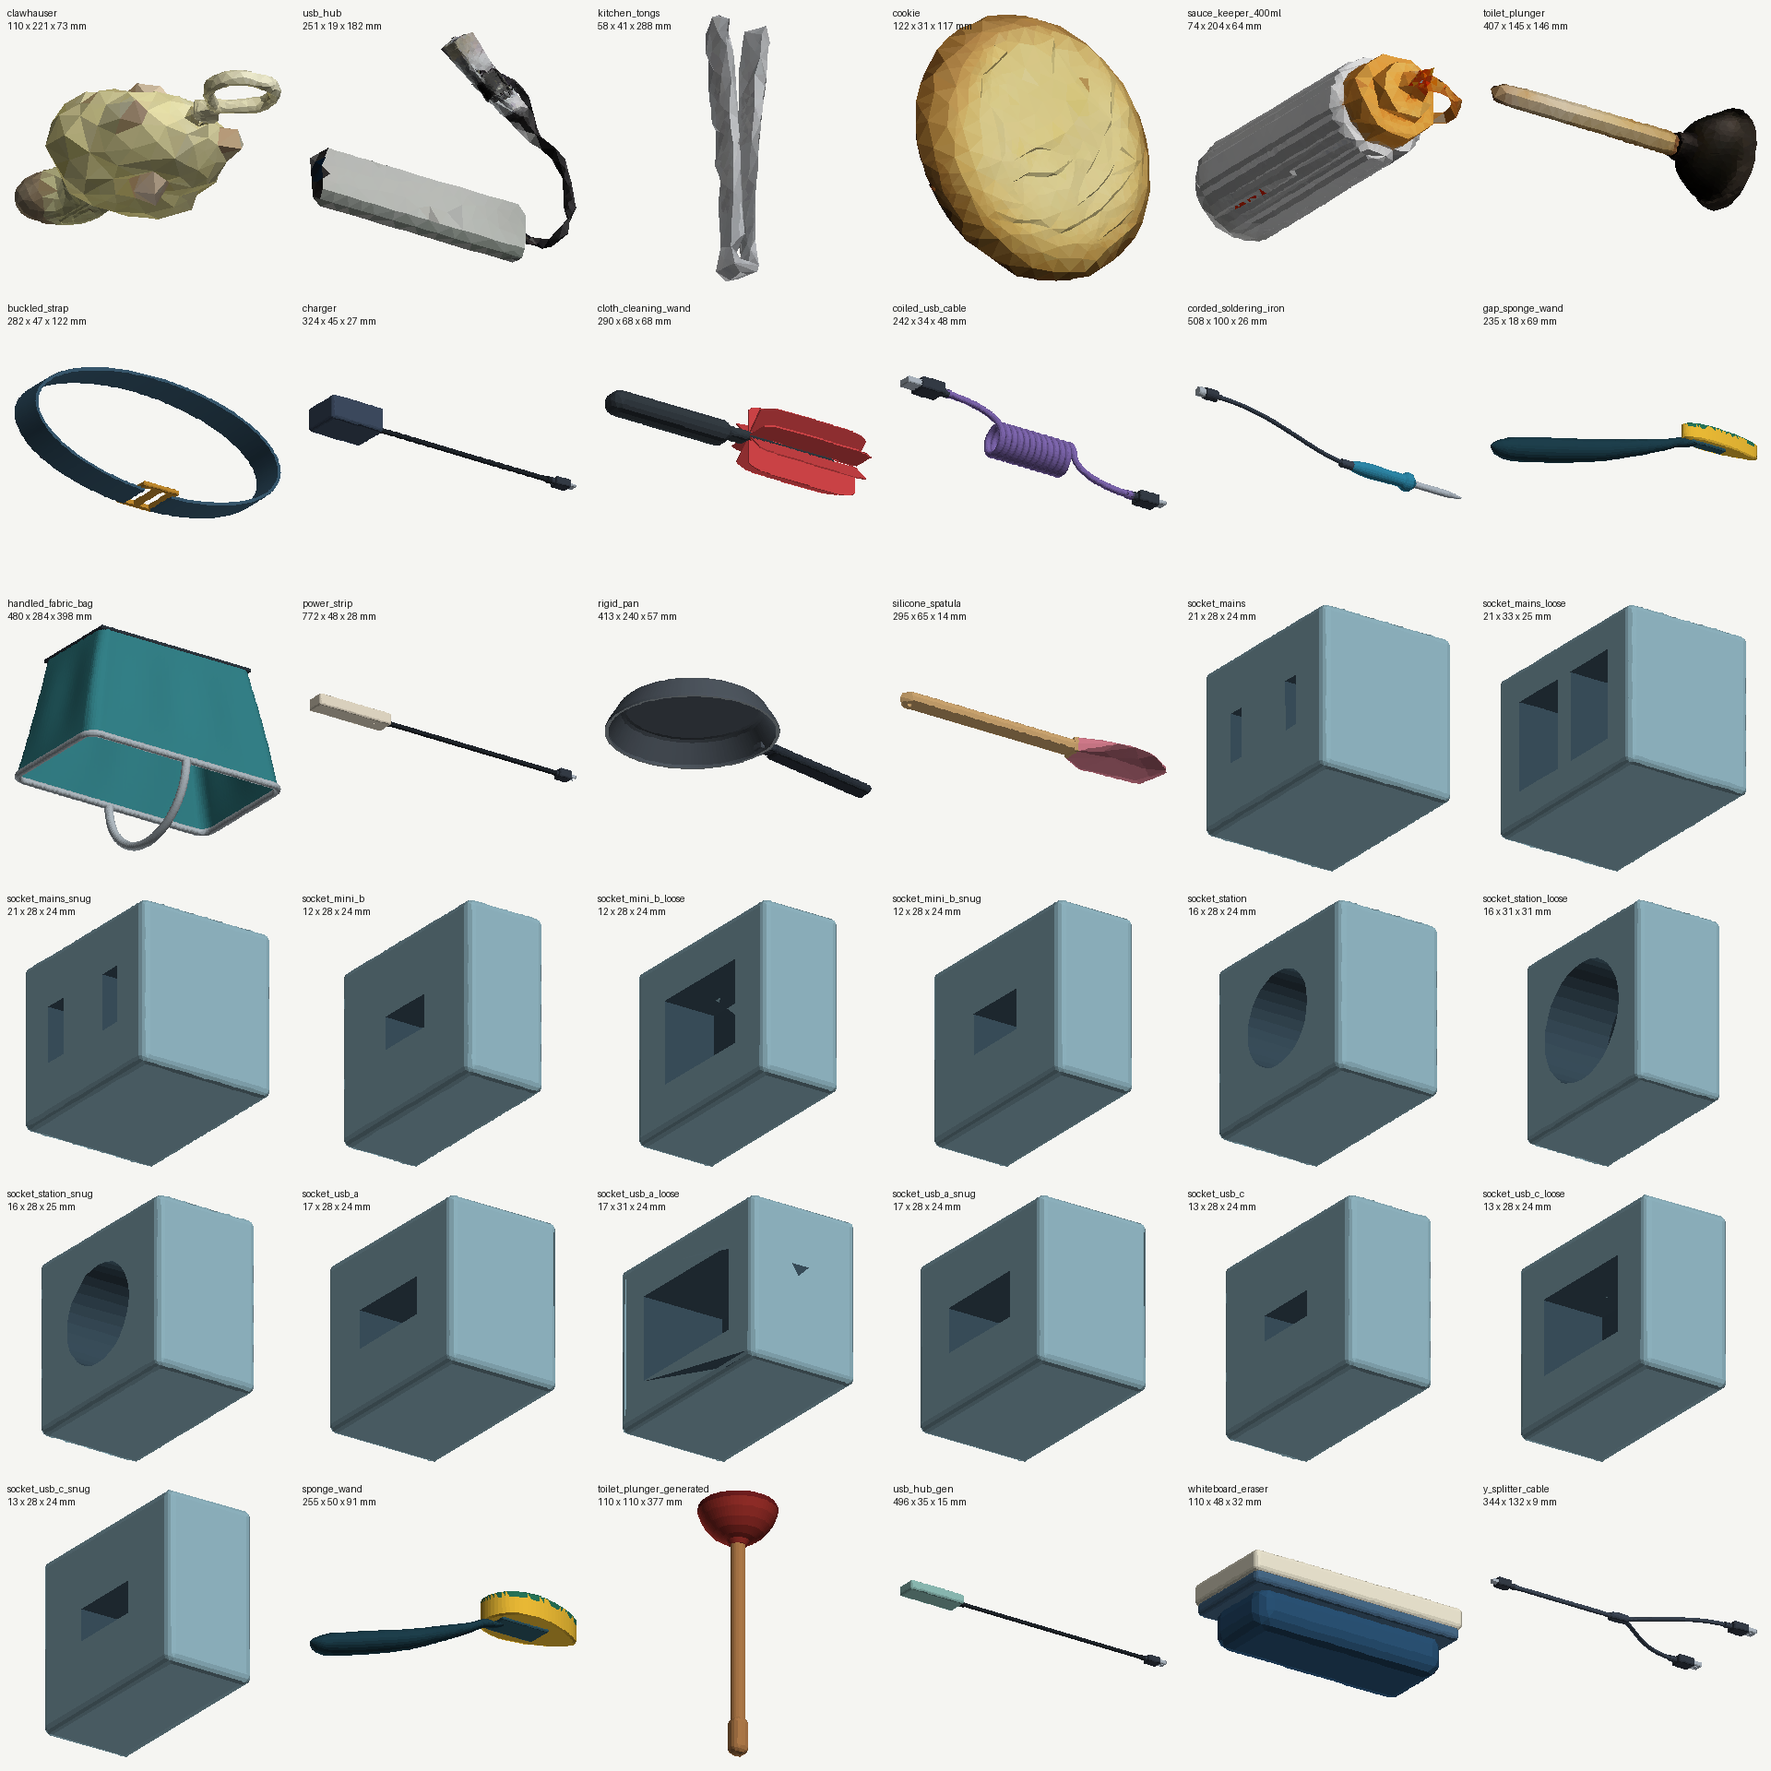
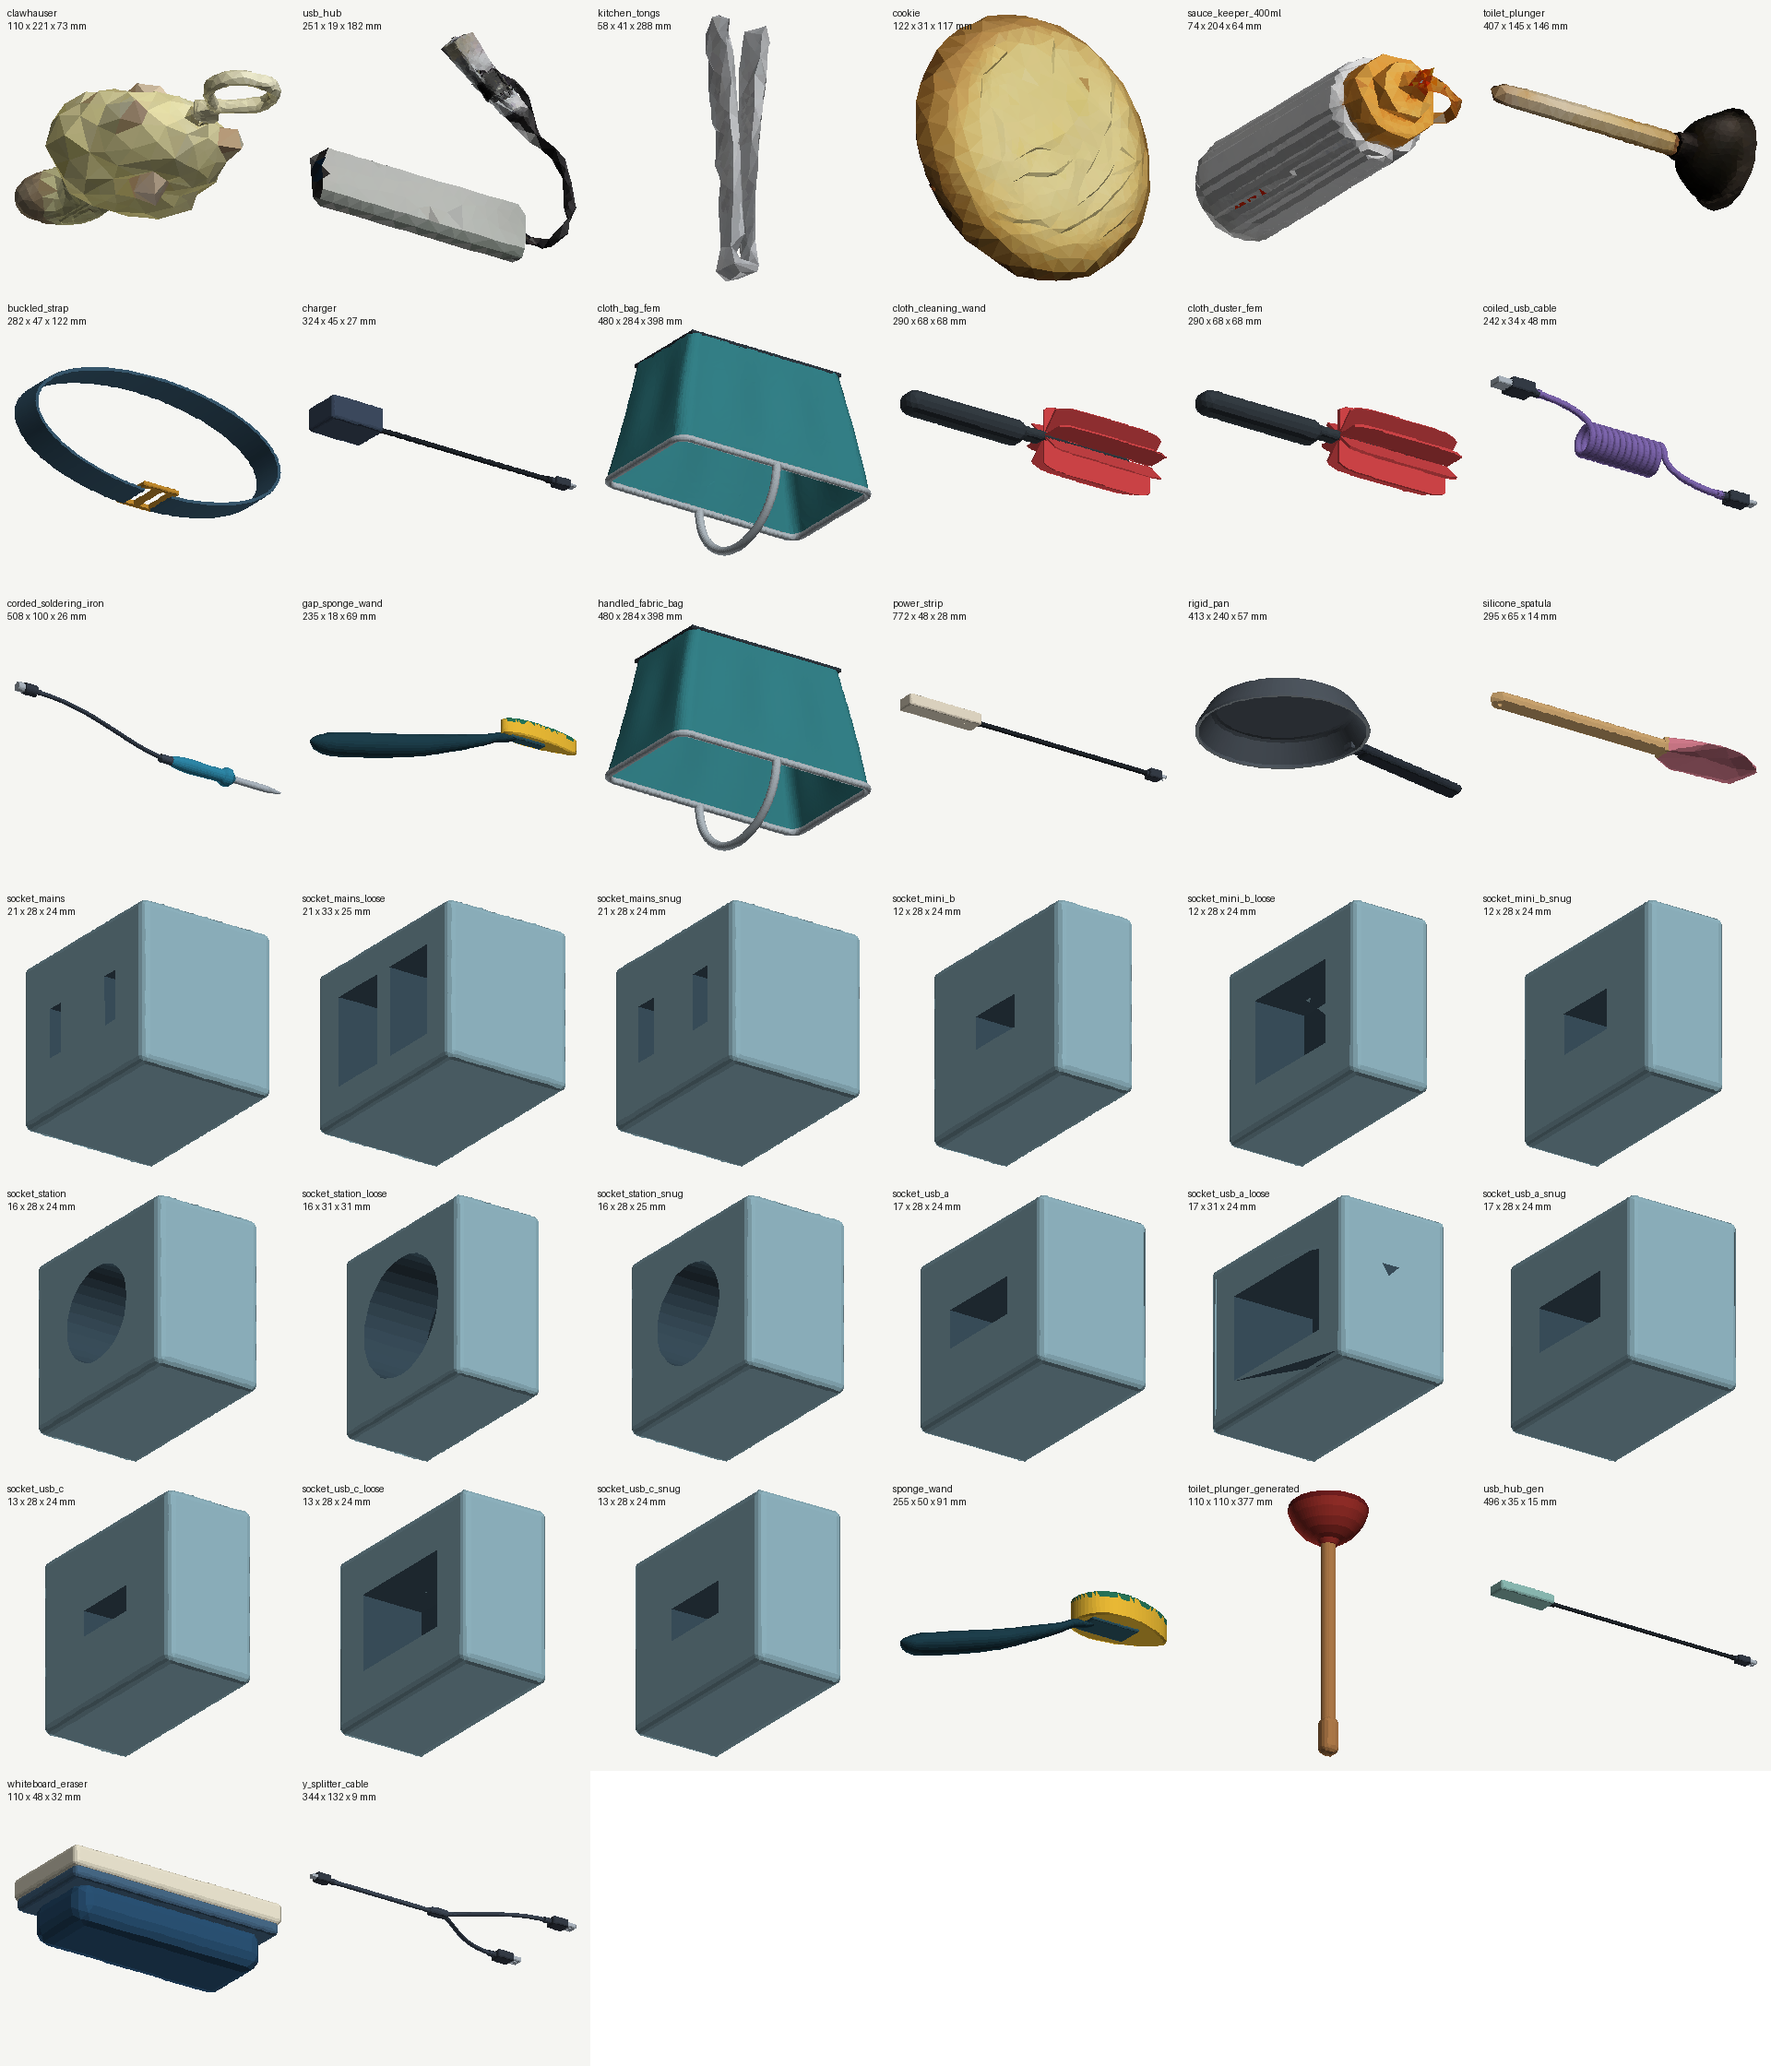
assets: catalog the cloth FEM bundles and the tool scenes that use each asset

diff --git a/examples/10_heterogeneous/assets/README.md b/examples/10_heterogeneous/assets/README.md
@@ -41,14 +41,16 @@ generated copy has a suffix: `usb_hub_gen` sits next to the original `usb_hub`, 
 | --- | --- | ---: | --- | --- |
 | [buckled_strap](buckled_strap/SOURCE.md) | cloth + rigid | - | 282 x 47 x 122 | - |
 | [charger](charger/SOURCE.md) | tet + rigid groups | 18,156 | 324 x 45 x 27 | `cable_hang_stick`, `cable_scene`, `cable_sort_plug`, `cable_tray_multi`, `cable_untangle_sort` |
+| [cloth_bag_fem](cloth_bag_fem/SOURCE.md) | tet + rigid groups | 111,476 | 480 x 284 x 398 | `tool_pack_bag` |
 | [cloth_cleaning_wand](cloth_cleaning_wand/SOURCE.md) | cloth + rigid | - | 290 x 68 x 68 | - |
+| [cloth_duster_fem](cloth_duster_fem/SOURCE.md) | tet + rigid groups | 28,667 | 290 x 68 x 68 | `tool_duster` |
 | [coiled_usb_cable](coiled_usb_cable/SOURCE.md) | tet + rigid groups | 71,030 | 242 x 34 x 48 | `cable_scene`, `cable_untangle_sort` |
-| [corded_soldering_iron](corded_soldering_iron/SOURCE.md) | tet + rigid groups | 19,117 | 508 x 100 x 26 | - |
-| [gap_sponge_wand](gap_sponge_wand/SOURCE.md) | tet + rigid groups | 14,813 | 235 x 18 x 69 | - |
+| [corded_soldering_iron](corded_soldering_iron/SOURCE.md) | tet + rigid groups | 19,117 | 508 x 100 x 26 | `tool_dock_iron`, `tool_scene` |
+| [gap_sponge_wand](gap_sponge_wand/SOURCE.md) | tet + rigid groups | 14,813 | 235 x 18 x 69 | `tool_gap_channel`, `tool_scene` |
 | [handled_fabric_bag](handled_fabric_bag/SOURCE.md) | cloth + rigid | - | 480 x 284 x 398 | - |
 | [power_strip](power_strip/SOURCE.md) | tet + rigid groups | 35,632 | 772 x 48 x 28 | `cable_retrieve`, `cable_scene` |
-| [rigid_pan](rigid_pan/SOURCE.md) | rigid mesh | - | 413 x 240 x 57 | - |
-| [silicone_spatula](silicone_spatula/SOURCE.md) | tet + rigid groups | 29,121 | 295 x 65 x 14 | - |
+| [rigid_pan](rigid_pan/SOURCE.md) | rigid mesh | - | 413 x 240 x 57 | `tool_spatula_cook` |
+| [silicone_spatula](silicone_spatula/SOURCE.md) | tet + rigid groups | 29,121 | 295 x 65 x 14 | `tool_pack_bag`, `tool_scene`, `tool_spatula_cook` |
 | [socket_mains](socket_mains/SOURCE.md) | rigid socket | - | 21 x 28 x 24 | - |
 | [socket_mains_loose](socket_mains_loose/SOURCE.md) | rigid socket | - | 21 x 33 x 25 | - |
 | [socket_mains_snug](socket_mains_snug/SOURCE.md) | rigid socket | - | 21 x 28 x 24 | - |
@@ -56,18 +58,18 @@ generated copy has a suffix: `usb_hub_gen` sits next to the original `usb_hub`, 
 | [socket_mini_b_loose](socket_mini_b_loose/SOURCE.md) | rigid socket | - | 12 x 28 x 24 | - |
 | [socket_mini_b_snug](socket_mini_b_snug/SOURCE.md) | rigid socket | - | 12 x 28 x 24 | - |
 | [socket_station](socket_station/SOURCE.md) | rigid socket | - | 16 x 28 x 24 | - |
-| [socket_station_loose](socket_station_loose/SOURCE.md) | rigid socket | - | 16 x 31 x 31 | - |
-| [socket_station_snug](socket_station_snug/SOURCE.md) | rigid socket | - | 16 x 28 x 25 | - |
+| [socket_station_loose](socket_station_loose/SOURCE.md) | rigid socket | - | 16 x 31 x 31 | `tool_dock_iron` |
+| [socket_station_snug](socket_station_snug/SOURCE.md) | rigid socket | - | 16 x 28 x 25 | `tool_dock_iron` |
 | [socket_usb_a](socket_usb_a/SOURCE.md) | rigid socket | - | 17 x 28 x 24 | - |
 | [socket_usb_a_loose](socket_usb_a_loose/SOURCE.md) | rigid socket | - | 17 x 31 x 24 | `cable_plug_place` |
 | [socket_usb_a_snug](socket_usb_a_snug/SOURCE.md) | rigid socket | - | 17 x 28 x 24 | `cable_plug_place` |
 | [socket_usb_c](socket_usb_c/SOURCE.md) | rigid socket | - | 13 x 28 x 24 | - |
 | [socket_usb_c_loose](socket_usb_c_loose/SOURCE.md) | rigid socket | - | 13 x 28 x 24 | - |
 | [socket_usb_c_snug](socket_usb_c_snug/SOURCE.md) | rigid socket | - | 13 x 28 x 24 | - |
-| [sponge_wand](sponge_wand/SOURCE.md) | tet + rigid groups | 16,874 | 255 x 50 x 91 | - |
-| [toilet_plunger_generated](toilet_plunger_generated/SOURCE.md) | tet + rigid groups | 20,735 | 110 x 110 x 377 | - |
-| [usb_hub_gen](usb_hub_gen/SOURCE.md) | tet + rigid groups | 19,025 | 496 x 35 x 15 | `cable_hang_stick`, `cable_plug_place`, `cable_scene`, `cable_sort_plug`, `cable_tray_multi`, `cable_untangle_sort` |
-| [whiteboard_eraser](whiteboard_eraser/SOURCE.md) | tet + rigid groups | 36,910 | 110 x 48 x 32 | - |
+| [sponge_wand](sponge_wand/SOURCE.md) | tet + rigid groups | 16,874 | 255 x 50 x 91 | `tool_asset_check`, `tool_pack_bag`, `tool_scene`, `tool_sponge_wipe` |
+| [toilet_plunger_generated](toilet_plunger_generated/SOURCE.md) | tet + rigid groups | 20,735 | 110 x 110 x 377 | `tool_scene` |
+| [usb_hub_gen](usb_hub_gen/SOURCE.md) | tet + rigid groups | 19,025 | 496 x 35 x 15 | `cable_hang_stick`, `cable_plug_place`, `cable_scene`, `cable_sort_plug`, `cable_tray_multi`, `cable_untangle_sort`, `tool_pack_bag` |
+| [whiteboard_eraser](whiteboard_eraser/SOURCE.md) | tet + rigid groups | 36,910 | 110 x 48 x 32 | `tool_scene`, `tool_stain_probe`, `tool_whiteboard_erase` |
 | [y_splitter_cable](y_splitter_cable/SOURCE.md) | tet + rigid groups | 20,969 | 344 x 132 x 9 | `cable_scene`, `cable_untangle_sort` |
 <!-- generated-assets:end -->
 
